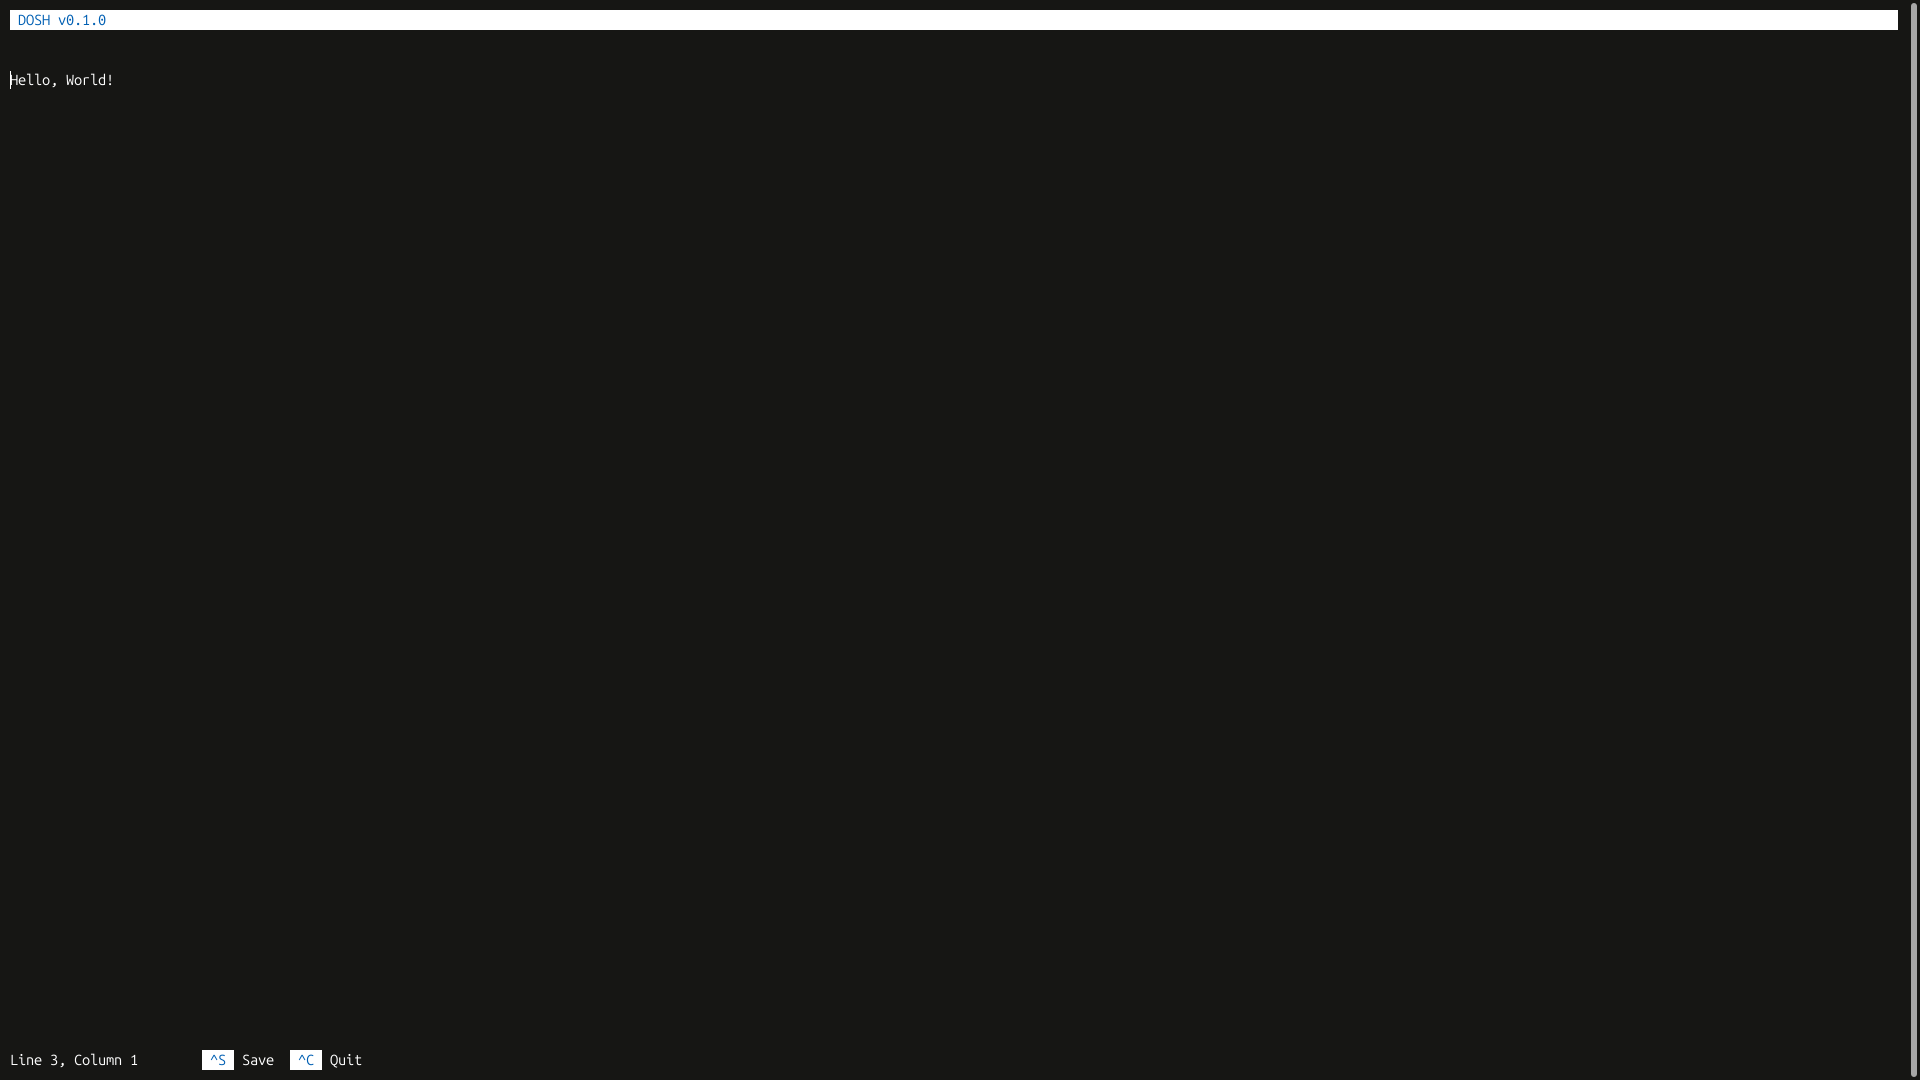
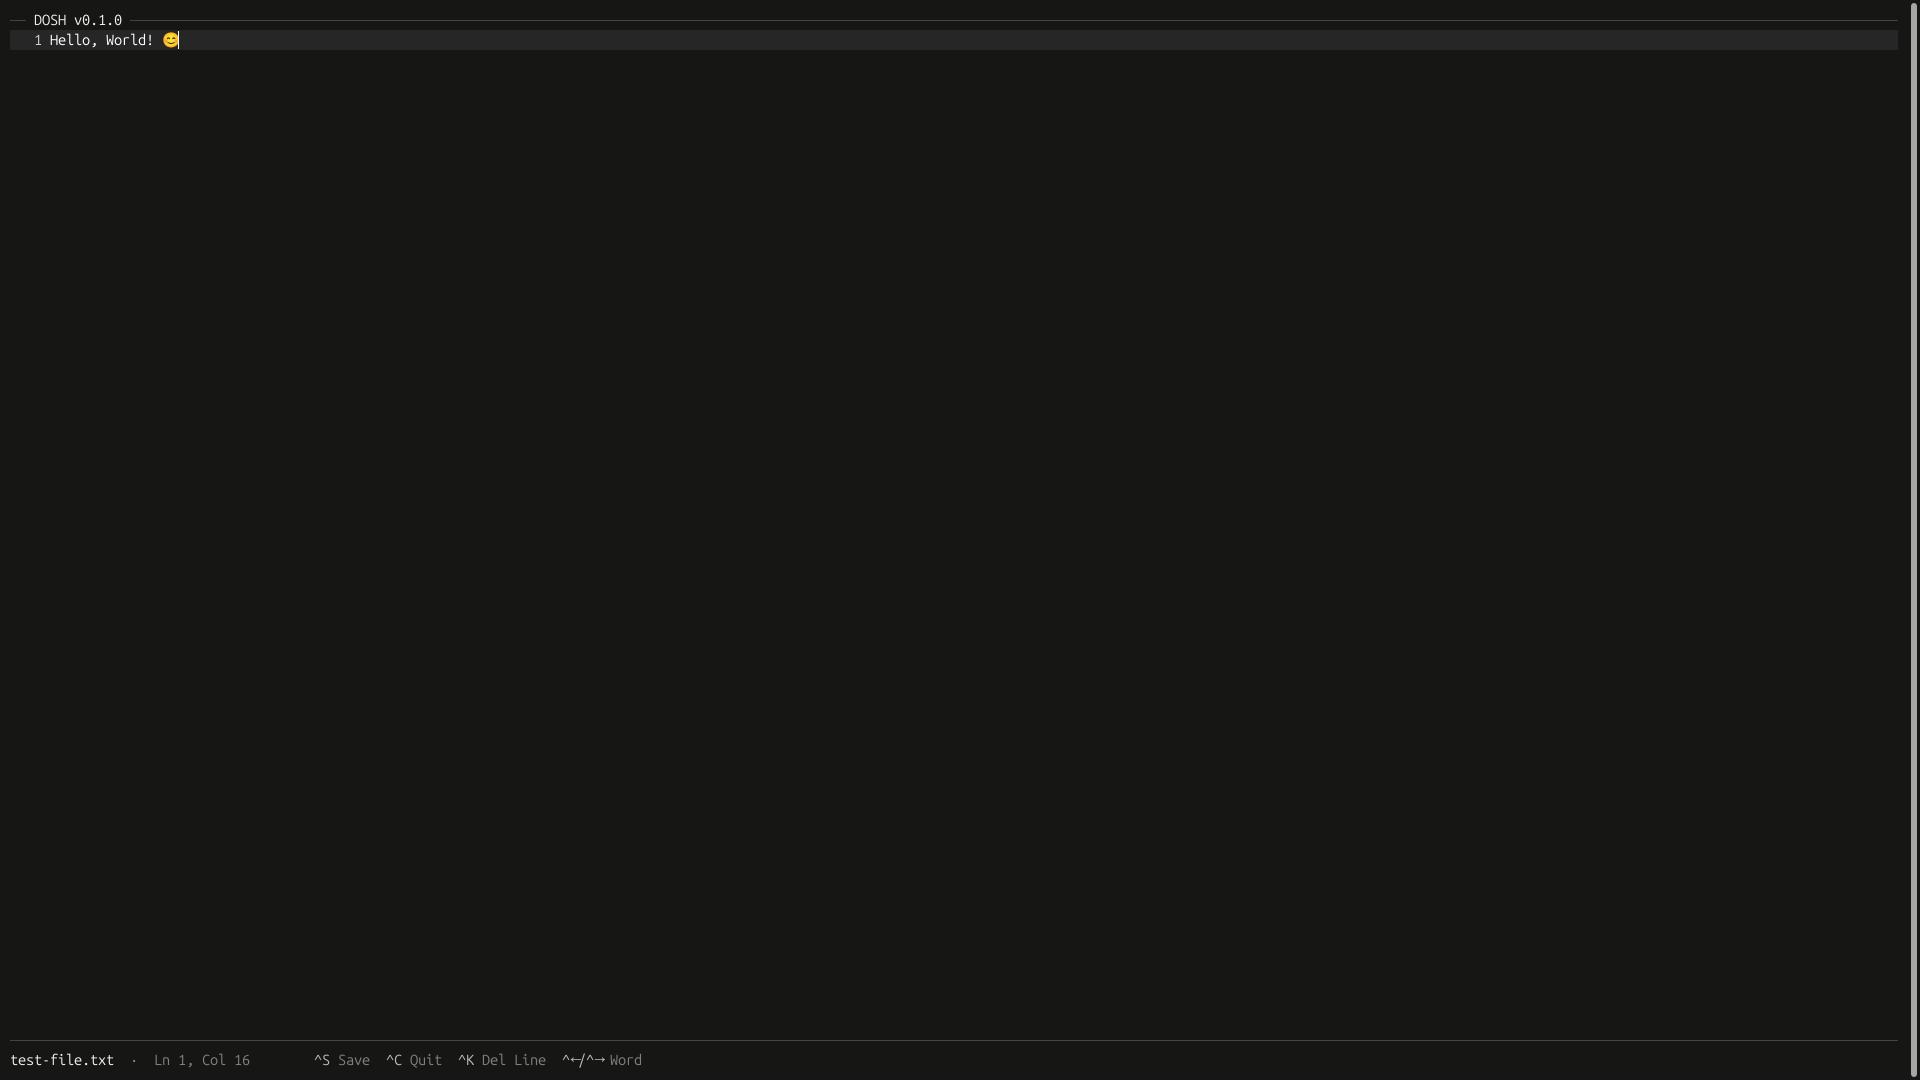
feat(editor): redesign UI with minimalist monochrome theme

diff --git a/internal/editor/editor.go b/internal/editor/editor.go
@@ -2,6 +2,7 @@ package editor
 
 import (
 	"fmt"
+	"os"
 	"strings"
 	"unicode"
 
@@ -206,7 +207,7 @@ func (ed *Editor) MoveDown() {
 }
 
 func (ed *Editor) Scroll(size terminal.Size) {
-	editorHeight := size.Height - 2
+	editorHeight := size.Height - 3
 
 	if ed.Row < ed.ScrollRow {
 		ed.ScrollRow = ed.Row
@@ -301,54 +302,148 @@ func (ed *Editor) End() {
 	ed.DesiredColumn = ed.Column
 }
 
-func Render(ed *Editor, size terminal.Size) {
-	terminal.ClearScreen()
+func gutterWidth(lineCount int) int {
+	digits := len(fmt.Sprintf("%d", lineCount))
 
-	header := " DOSH v0.1.0"
-	padding := size.Width - len(header)
-
-	if padding < 0 {
-		padding = 0
+	if digits < 3 {
+		digits = 3
 	}
 
-	fmt.Print(terminal.BgWhite + terminal.Blue)
-	fmt.Print(header)
-	fmt.Print(strings.Repeat(" ", padding))
-	fmt.Print(terminal.Reset + "\r\n")
+	return digits + 2
+}
 
-	editorHeight := size.Height - 2
+func Render(ed *Editor, size terminal.Size, fileName string) {
+	var buf strings.Builder
 
-	linesToRender := len(ed.Lines) - ed.ScrollRow
-	if linesToRender > editorHeight {
-		linesToRender = editorHeight
+	buf.WriteString(terminal.HideCursor)
+	buf.WriteString(terminal.MoveCursorSeq(1, 1))
+
+	title := " DOSH v0.1.0 "
+	titleLen := len(title)
+	leftRule := 2
+
+	buf.WriteString(terminal.RuleFg)
+	buf.WriteString(strings.Repeat("─", leftRule))
+	buf.WriteString(terminal.Reset)
+	buf.WriteString(terminal.TitleFg)
+	buf.WriteString(title)
+	buf.WriteString(terminal.Reset)
+	buf.WriteString(terminal.RuleFg)
+
+	rightRule := size.Width - leftRule - titleLen
+	if rightRule < 0 {
+		rightRule = 0
 	}
 
-	for i := 0; i < linesToRender; i++ {
+	buf.WriteString(strings.Repeat("─", rightRule))
+	buf.WriteString(terminal.Reset)
+
+	editorHeight := size.Height - 3
+	gw := gutterWidth(len(ed.Lines))
+
+	for i := 0; i < editorHeight; i++ {
+		buf.WriteString(terminal.MoveCursorSeq(i+2, 1))
+		buf.WriteString(terminal.ClearLineSeq())
+
 		lineIndex := ed.ScrollRow + i
-		line := ed.Lines[lineIndex]
+		if lineIndex >= len(ed.Lines) {
+			continue
+		}
 
-		if lineIndex == ed.Row {
-			fmt.Print(string(line.Content[:ed.Column]))
-			fmt.Print("\0337")
-			fmt.Print(string(line.Content[ed.Column:]))
+		isCurrent := lineIndex == ed.Row
+		lineNumberField := fmt.Sprintf("%*d", gw-2, lineIndex+1)
+
+		if isCurrent {
+			buf.WriteString(terminal.CurrentLineBg)
+			buf.WriteString(terminal.GutterActiveFg)
+			buf.WriteString(" " + lineNumberField + " ")
 		} else {
-			fmt.Print(string(line.Content))
+			buf.WriteString(terminal.GutterFg)
+			buf.WriteString(" " + lineNumberField + " ")
 		}
 
-		if i < linesToRender-1 {
-			fmt.Print("\r\n")
+		buf.WriteString(terminal.Reset)
+
+		if isCurrent {
+			buf.WriteString(terminal.CurrentLineBg)
 		}
+
+		line := ed.Lines[lineIndex]
+		buf.WriteString(string(line.Content))
+
+		if isCurrent {
+			padding := size.Width - gw - displayWidth(line.Content)
+
+			if padding > 0 {
+				buf.WriteString(strings.Repeat(" ", padding))
+			}
+		}
+
+		buf.WriteString(terminal.Reset)
 	}
 
-	fmt.Printf("\033[%d;1H", size.Height)
-	fmt.Printf("Line %d, Column %d	", ed.Row+1, ed.Column+1)
+	buf.WriteString(terminal.MoveCursorSeq(size.Height-1, 1))
+	buf.WriteString(terminal.RuleFg)
+	buf.WriteString(strings.Repeat("─", size.Width))
+	buf.WriteString(terminal.Reset)
+
+	buf.WriteString(terminal.MoveCursorSeq(size.Height, 1))
+	buf.WriteString(terminal.ClearLineSeq())
+
+	if fileName != "" {
+		buf.WriteString(terminal.TitleFg)
+		buf.WriteString(fileName)
+		buf.WriteString(terminal.Reset)
+		buf.WriteString(terminal.StatusFg)
+		buf.WriteString("  ·  ")
+	} else {
+		buf.WriteString(terminal.StatusFg)
+	}
+
+	fmt.Fprintf(&buf, "Ln %d, Col %d", ed.Row+1, ed.Column+1)
+	buf.WriteString(terminal.Reset)
 
 	if ed.StatusMessage != "" {
-		fmt.Print(ed.StatusMessage)
+		buf.WriteString("   ")
+		buf.WriteString(terminal.StatusFg)
+		buf.WriteString(ed.StatusMessage)
+		buf.WriteString(terminal.Reset)
 	} else {
-		fmt.Print(terminal.BgWhite + terminal.Blue + " ^S " + terminal.Reset + " Save  ")
-		fmt.Print(terminal.BgWhite + terminal.Blue + " ^C " + terminal.Reset + " Quit")
+		shortcuts := []struct {
+			key, label string
+		}{
+			{"^S", "Save"},
+			{"^C", "Quit"},
+			{"^K", "Del Line"},
+			{"^←/^→", "Word"},
+		}
+
+		buf.WriteString("        ")
+
+		for i, s := range shortcuts {
+			buf.WriteString(terminal.StatusKeyFg)
+			buf.WriteString(s.key)
+			buf.WriteString(terminal.Reset)
+			buf.WriteString(terminal.StatusFg)
+			buf.WriteString(" " + s.label)
+			buf.WriteString(terminal.Reset)
+
+			if i < len(shortcuts)-1 {
+				buf.WriteString("  ")
+			}
+		}
 	}
 
-	fmt.Print("\0338")
+	cursorColumn := displayWidth(ed.Lines[ed.Row].Content[:ed.Column])
+
+	buf.WriteString(
+		terminal.MoveCursorSeq(
+			ed.Row-ed.ScrollRow+2,
+			cursorColumn+gw+1,
+		),
+	)
+
+	buf.WriteString(terminal.ShowCursor)
+
+	os.Stdout.WriteString(buf.String())
 }

diff --git a/cmd/dosh/main.go b/cmd/dosh/main.go
@@ -4,6 +4,7 @@ import (
 	"fmt"
 	"os"
 	"os/signal"
+	"path/filepath"
 	"syscall"
 	"time"
 
@@ -14,6 +15,14 @@ import (
 	"github.com/avieira-dev/dosh/internal/input"
 	"github.com/avieira-dev/dosh/internal/terminal"
 )
+
+func fileDisplayName(openFile *file.File) string {
+	if openFile == nil {
+		return ""
+	}
+
+	return filepath.Base(openFile.Path)
+}
 
 func main() {
 	oldState, err := term.MakeRaw(int(os.Stdin.Fd()))
@@ -60,8 +69,9 @@ func main() {
 		return
 	}
 
+	terminal.ClearScreen()
 	ed.Scroll(size)
-	editor.Render(&ed, size)
+	editor.Render(&ed, size, fileDisplayName(openFile))
 
 	keys := make(chan input.Key)
 
@@ -99,7 +109,7 @@ func main() {
 
 				if running {
 					ed.Scroll(size)
-					editor.Render(&ed, size)
+					editor.Render(&ed, size, fileDisplayName(openFile))
 				}
 
 				continue
@@ -130,7 +140,7 @@ func main() {
 					}
 				}
 
-				editor.Render(&ed, size)
+				editor.Render(&ed, size, fileDisplayName(openFile))
 				continue
 			}
 
@@ -178,7 +188,7 @@ func main() {
 					}
 				}
 
-				editor.Render(&ed, size)
+				editor.Render(&ed, size, fileDisplayName(openFile))
 
 				continue
 			}
@@ -241,7 +251,7 @@ func main() {
 
 			if running {
 				ed.Scroll(size)
-				editor.Render(&ed, size)
+				editor.Render(&ed, size, fileDisplayName(openFile))
 			}
 
 		case <-signals:
@@ -252,13 +262,14 @@ func main() {
 				continue
 			}
 
+			terminal.ClearScreen()
 			ed.Scroll(size)
-			editor.Render(&ed, size)
+			editor.Render(&ed, size, fileDisplayName(openFile))
 
 		case <-statusTimer.C:
 			ed.StatusMessage = ""
 			ed.Scroll(size)
-			editor.Render(&ed, size)
+			editor.Render(&ed, size, fileDisplayName(openFile))
 		}
 	}
 

diff --git a/internal/terminal/screen.go b/internal/terminal/screen.go
@@ -11,10 +11,23 @@ type Size struct {
 	Height int
 }
 
+const (
+	HideCursor = "\033[?25l"
+	ShowCursor = "\033[?25h"
+)
+
 func ClearScreen() {
 	fmt.Print("\033[2J")
 	fmt.Print("\033[H")
 	fmt.Print("\033[3J")
+}
+
+func MoveCursorSeq(row, column int) string {
+	return fmt.Sprintf("\033[%d;%dH", row, column)
+}
+
+func ClearLineSeq() string {
+	return "\033[2K"
 }
 
 func GetSize() (Size, error) {

diff --git a/internal/terminal/colors.go b/internal/terminal/colors.go
@@ -21,4 +21,12 @@ const (
 	BgMagenta = "\033[45m"
 	BgCyan    = "\033[46m"
 	BgWhite   = "\033[47m"
+
+	RuleFg         = "\033[38;5;238m"
+	GutterFg       = "\033[38;5;240m"
+	GutterActiveFg = "\033[38;5;252m"
+	TitleFg        = "\033[38;5;255m"
+	StatusFg       = "\033[38;5;244m"
+	StatusKeyFg    = "\033[38;5;250m"
+	CurrentLineBg  = "\033[48;5;235m"
 )

diff --git a/internal/editor/grapheme.go b/internal/editor/grapheme.go
@@ -61,3 +61,7 @@ func normalizeGraphemeColumn(line []rune, column int) int {
 
 	return column
 }
+
+func displayWidth(line []rune) int {
+	return uniseg.StringWidth(string(line))
+}
